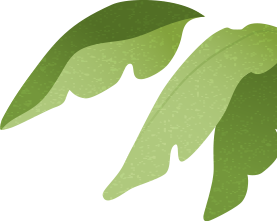
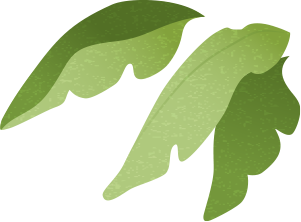
33

diff --git a/transfer/assets/css/main.css b/transfer/assets/css/main.css
@@ -12,13 +12,16 @@ img{margin: 0; padding: 0; display: block;}
 .kv_container{width: 100%;}
 .kv{width: 100%; max-width: 1920px; margin: 0 auto; height: 0; padding-bottom: 39.0625%; background: url("../images/kv_bg.jpg") center top no-repeat; background-size: 100% auto; position: relative;}
 .kv .kv-item{position: absolute;}
-.kv .leafL{width: 14.5%; transform: scaleX(-1); top: -6%; left: -1%;}
-.kv .leafR{width: 14.5%; top: -5%; right: 0;}
-.kv .hand{width: 17%; bottom: 7%; right: 22%;}
+.kv .leafL{width: 16%; transform: scaleX(-1); top: -7%; left: -3%;}
+.kv .leafR{width: 16%; top: -7%; right: -3%;}
+.kv .hand{width: 17%; bottom: 7%; right: 22%; transform-origin: right bottom;
+  -webkit-animation: hand 6s infinite ease-in-out; animation: hand 3s infinite ease-in-out;}
 .kv .grass{width: 42%; bottom: 5.5%; right: -2%;}
 .kv .kv_tit{width: 35.5%; top: 4.5%; left: 25%;}
-.kv .kv_tit .coin1{width: 11%; top: 11.5%; left: -2%;}
-.kv .kv_tit .coin2{width: 11%; top: 87.5%; left: 71%;}
+.kv .kv_tit .coin1{width: 11%; top: 12%; left: -2%; transform-origin: center center;
+  -webkit-animation: float 3s infinite ease-in-out; animation: float 3s infinite ease-in-out;}
+.kv .kv_tit .coin2{width: 11%; top: 88.5%; left: 71%; transform-origin: center center;
+  -webkit-animation: float 3s infinite ease-in-out; animation: float 4s infinite ease-in-out;}
 .mobOnly{display: none;}
 /* event*/
 .event_container{ width: 100%; margin: 0 auto; background-color: #f6f2e1; 
@@ -553,8 +556,8 @@ img{margin: 0; padding: 0; display: block;}
 .main{padding-top: 58px;}
 /* kv */
 .kv{width: 100%; height: 0; padding-bottom: 142.708%; margin: 0 auto; background: url("../images/kv_bg-m.jpg") center top no-repeat; background-size: 100% auto;}
-.kv .leafL{width: 26%; top: -3%; left: -4%;}
-.kv .leafR{width: 26%; top: -3%; right: -4%;}
+.kv .leafL{width: 28%; top: -3%; left: -4%;}
+.kv .leafR{width: 28%; top: -3%; right: -4%;}
 .kv .hand{width: 42%; bottom: 1%; right: 26%;}
 .kv .grass{width: 110%; bottom: 0.5%; right: -4%;}
 .kv .kv_tit{width: 76%; top: 9%; left: 13.2%;}
@@ -628,3 +631,11 @@ img{margin: 0; padding: 0; display: block;}
 }
 
 /* animation */
+@keyframes float {
+  0%,100% { transform: translateY(0px);}
+  50% { transform: translateY(-12px);}
+}
+@keyframes hand {
+  0%,100% { transform: rotate(2deg);}
+      50% { transform: rotate(-3deg);}
+}
